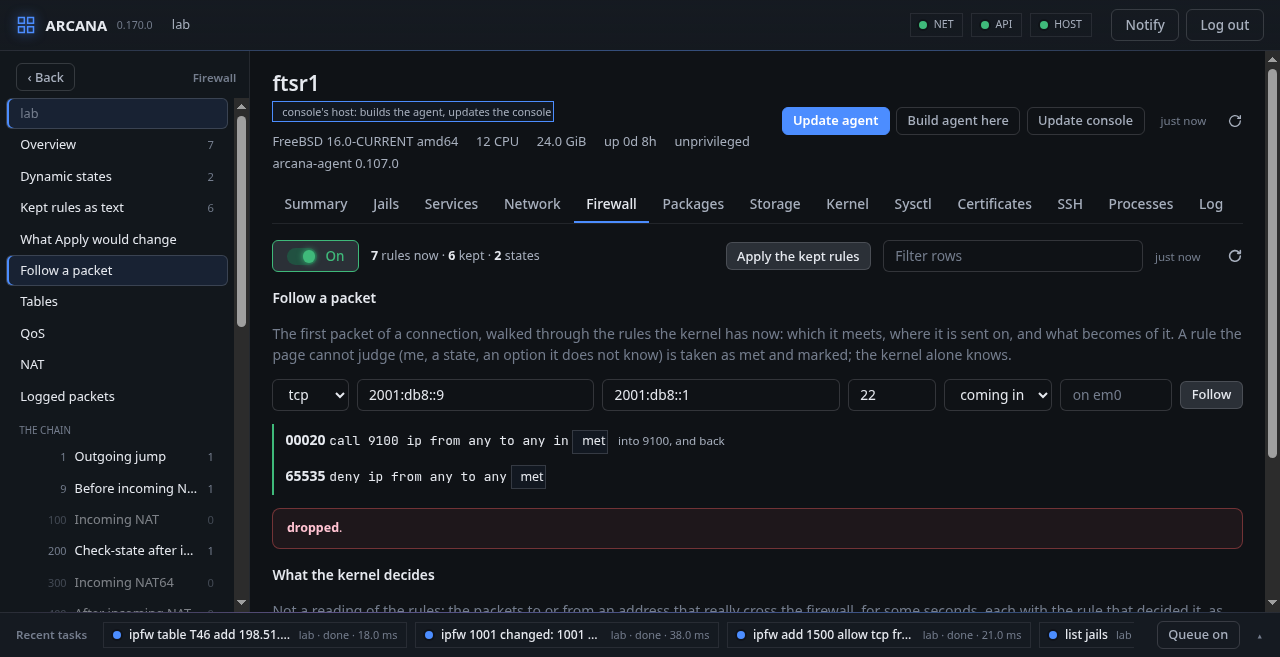
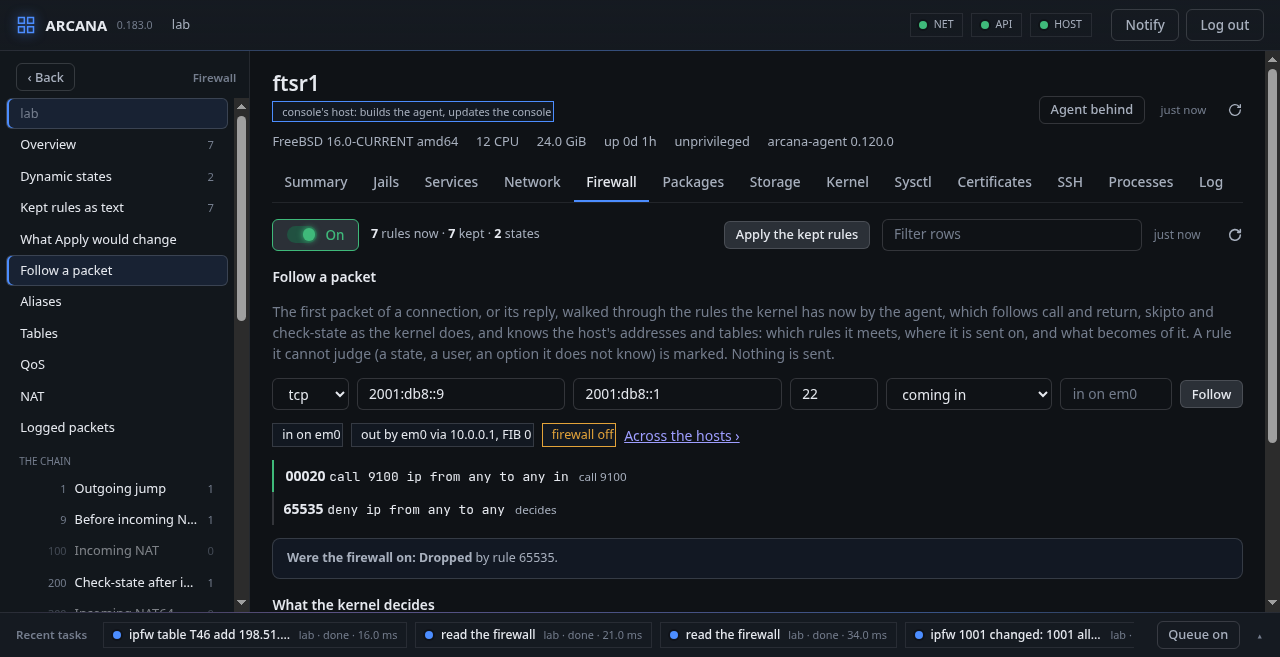
Firewall: the walk the agent makes, the chain drawn; Troubleshoot: the way drawn, addresses offered, swap, a shareable address; the modules converted so far

diff --git a/src/sections/troubleshoot.md b/src/sections/troubleshoot.md
@@ -11,9 +11,13 @@ now.
 
 ## Packet path
 
-Give the source and the destination, the protocol (TCP, UDP, ICMP, or
-any IP) and the port, and where to look: the hosts, and their running
-vnet jails that route as routers do. None ticked, every host is asked.
+Give the source and the destination (every address the hosts have is
+offered as you type, with its host and interface; **swap** turns the
+packet round), the protocol (TCP, UDP, ICMP, or any IP) and the port,
+and where to look: the hosts, and their running vnet jails that route
+as routers do. None ticked, every host is asked. The page's address
+names the packet (`#/troubleshoot?src=…&dst=…&proto=tcp&port=22`), to
+share or to open from the firewall tab's **Across the hosts ›**.
 
 Where the packet comes in is the place whose address the source is, or
 the one on the source's network, coming in on that interface. There it
@@ -48,19 +52,34 @@ request and the reply go by different places, that is said as the
 asymmetry it is.
 
 What is wrong is said first, worst first, each with its place: the
-firewall dropping it (and by which rule), no send route, no receive
-route, forwarding off, a next hop that does not answer, an asymmetric
-way back. Below, the way there and the way back, place by place: where
-it comes in, each firewall's verdict with its rule (the rule's text when
-hovered), the route, the next hop, and each place's own check. The
-whole can be exported as JSON or YAML.
+firewall dropping it (and by which rule; **Its firewall ›** opens that
+rule on the host's Firewall tab), no send route, no receive route,
+forwarding off, a next hop that does not answer, an asymmetric way
+back. A firewall that is off is walked all the same, for what it would
+do turned on, and said to be off; nothing of it stops the packet.
+
+Then the way is drawn: the source at the left, the destination at the
+right, each place passed as a box between (its name, the interface it
+comes in on and goes out by, its FIB, two dots for what its firewall
+does coming in and going out, "asymmetric" when the reply would go
+back another way), the request's way above the boxes left to right and
+the reply's below, right to left, dashed. Where either is stopped the
+arrow ends in a bar and the box is red; where it leaves the hosts asked
+the arrow goes on, dotted, to the next hop. A place the reply passes
+that the request did not gets a box of its own. A box pressed opens the
+host's page, its jail's. Below the drawing, the way there and the way
+back, place by place: where it comes in, each firewall's verdict with
+its rule (the rule's text when hovered), the route, the next hop, and
+each place's own check. The whole can be exported as JSON or YAML.
 
 <div class="freebsd">
 
 **FreeBSD:** the ruleset is the kernel's, as `ipfw list` and `ipfw table
-all list` print it, and the walk follows `ip_fw2.c`: `count` and
-`setfib` go on, `skipto` jumps forward, `check-state` and the first
-`keep-state` look the flow up, `verrevpath`, `versrcreach` and
+all list` print it, and the walk follows `ip_fw2.c`: `count`, `reass`
+and `setfib` go on, `skipto` jumps forward, `call` pushes the rule and
+jumps and `return` comes back to the rule numbered after it (or the
+next rule, `next-rule`), as `O_CALLRETURN` does, `check-state` and the
+first `keep-state` look the flow up, `verrevpath`, `versrcreach` and
 `antispoof` by the routes, `me` by the place's addresses, a table by its
 longest entry, `tablearg` by the entry's value. A rule the walk cannot
 judge for a packet that was never sent (a socket's `uid`, a `tag`, a MAC

diff --git a/src/sections/firewall.md b/src/sections/firewall.md
@@ -8,6 +8,13 @@ parts are in the side bar, in place of its pages: **Overview**,
 with how many rules it has. **‹ Back** brings the side bar's pages
 back.
 
+**Overview** draws the chain first: the parts every packet walks down
+the left, the parts they call on the right, an arrow for each `call`
+(and a dashed one for each `skipto`) the rules make between them, and
+on each part how many rules it has, how many are kept, and what they
+take a second while **Live** reads the counters. A part pressed opens.
+Below it, the same as a table.
+
 ![The chain, part by part](../img/tour-firewall.png)
 
 | Numbers | Part |
@@ -112,11 +119,20 @@ lives, read again every two seconds; one pressed leads to its rule.
 ## Following a packet
 
 **Follow a packet** asks for a protocol, where from, where to, a port,
-a direction and an interface, and walks the first packet of such a
-connection through the kernel's rules: each rule it meets, each jump,
-call and return, and what becomes of it. A rule the page cannot judge
-(`me`, a state, an option it does not know) is taken as met and
-marked: it is a reading of the rules, not the kernel's answer.
+which walk to see (the packet coming in, going out, or its reply either
+way) and the interface it comes in on, and has the agent walk the first
+packet of such a connection through the kernel's rules (its
+`path-check`, the same the Troubleshoot page asks every host): each
+rule it meets in the kernel's own order, `skipto`, `call` and `return`,
+`check-state` and the first `keep-state` looking the connection up,
+`me` and the tables by what the host has, and what becomes of it. Above
+the walk, where the packet is at this host: in on which interface, out
+by which route and FIB, or that it is the host's own. A rule the agent
+cannot judge without sending the packet (a socket's `uid`, a `tag`) is
+marked "may be met" and listed under what it could not judge. With the
+firewall off, the walk shows what the rules would do turned on, and
+says so. **Across the hosts ›** opens the same packet on the
+Troubleshoot page, followed from host to host and back.
 
 ![A packet followed through the rules](../img/sec-firewall-trace.png)
 

diff --git a/src/sections/panel.md b/src/sections/panel.md
@@ -97,12 +97,18 @@ in view while the graph scrolls.
   reply as maps keyed by attribute number, in CDDL, with the attribute
   sets they nest, taken from the family's own description
   (`share/arcana/arcana.yaml`).
-  An operation already converted to YANG (the jails' `list` and
-  `action`, so far) has a second tab, **YANG**: the module it is now,
-  drawn as an RFC 8340 tree: `rw` configuration, `ro` state, `x` an
-  action, `*` a list. The jails are `arcana-jails`, FreeBSD's jails as
-  jail(8) and jail_get(2) see them, start, stop, restart and kill its
-  actions.
+  An operation already converted to YANG has a second tab, **YANG**:
+  the module it is now, drawn as an RFC 8340 tree: `rw` configuration,
+  `ro` state, `x` an action, `*` a list. So far the jails
+  (`arcana-jails`, FreeBSD's jails as jail(8) and jail_get(2) see them,
+  start, stop, restart and kill its actions), the services, the
+  packages, the jobs, the storage, sysctl and the kernel, the
+  processes, the logs (`arcana-log`, with syslog.conf as RFC 9742's
+  `ietf-syslog`) and the firewall (`arcana-firewall`: the kept rules
+  and aliases as configuration, ipfw's rules with counters, dynamic
+  rules, tables, NAT and dummynet as state, the kernel's trace as an
+  action). The modules are in `share/yang` of the source, each leaf
+  naming the FreeBSD facility it is read from.
 
   ![A task's YANG tab: the jails as arcana-jails](../img/tour-jails-yang.png)
 - **Raw output**, when a program ran, shows its argv, exit status and
